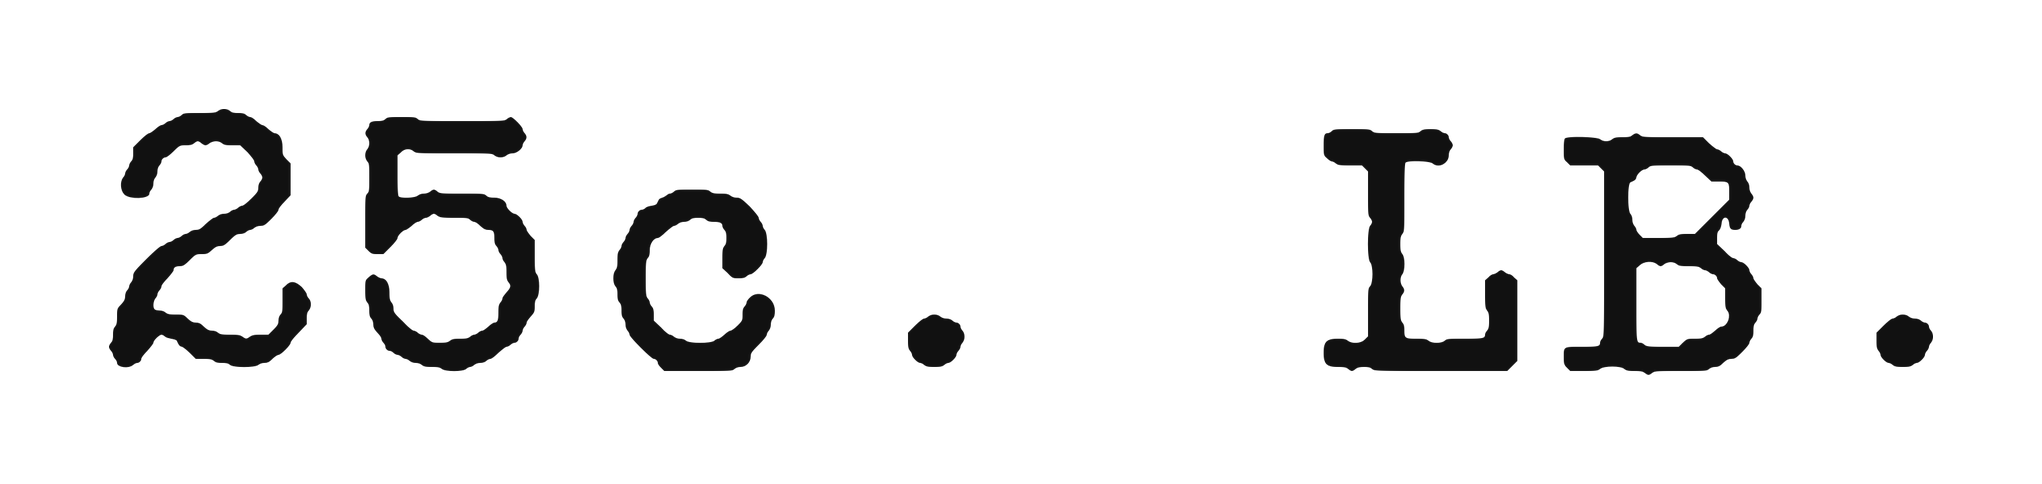
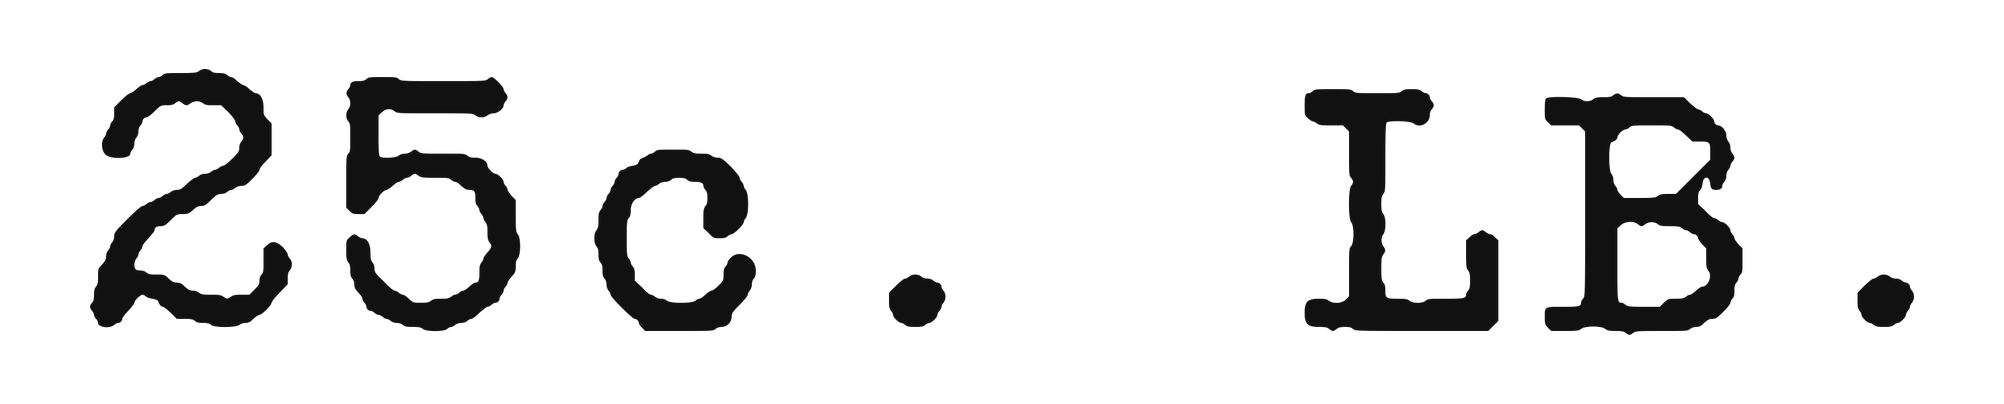
Tighten specimen spacing and set display width in README

diff --git a/README.md b/README.md
@@ -1,8 +1,8 @@
 # Chemung Job
 
-![Chemung Job](specimen.png)
+<img src="specimen.png" alt="Chemung Job" width="560">
 
-![25c. LB.](specimen-25c-lb.png)
+<img src="specimen-25c-lb.png" alt="25c. LB." width="380">
 
 A monospaced slab serif face traced from a printed 12 point specimen sheet of
 type and borders manufactured by the Monotype and sold by the Chemung Printing
